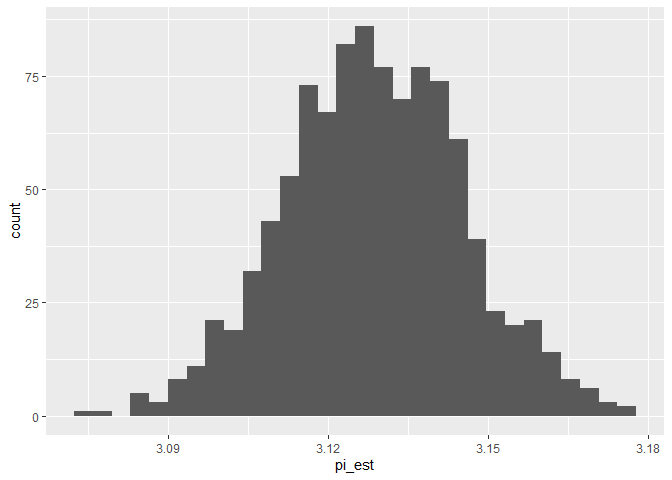
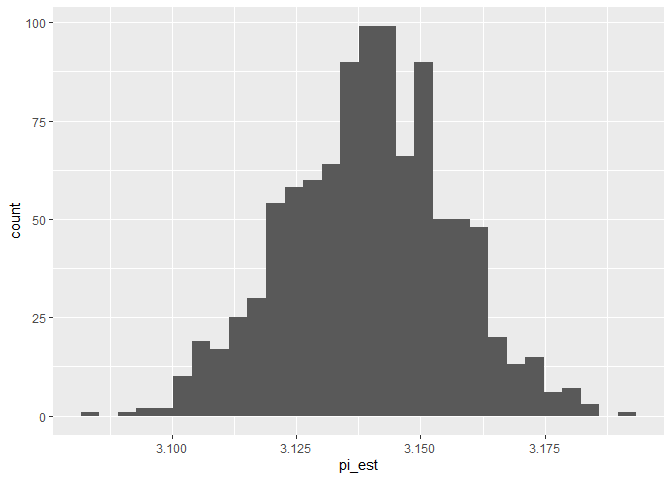
revisions to challenge 7

diff --git a/challenges/c07-monte-carlo-assignment.md b/challenges/c07-monte-carlo-assignment.md
@@ -60,6 +60,7 @@ a link to Canvas. **Your Challenge submission is not complete without
 all files uploaded to GitHub.**
 
 ``` r
+set.seed(101)
 library(tidyverse)
 ```
 
@@ -324,7 +325,7 @@ df_q3
     ## # A tibble: 1 × 1
     ##   pi_est
     ##    <dbl>
-    ## 1   3.13
+    ## 1   3.14
 
 Use the following to check that you’ve used the correct variable names.
 (NB. This does not check correctness.)
@@ -401,11 +402,23 @@ df_q4 %>%
 
 ![](c07-monte-carlo-assignment_files/figure-gfm/q4-task-1.png)<!-- -->
 
+``` r
+min(df_q4$pi_est)
+```
+
+    ## [1] 3.0832
+
+``` r
+max(df_q4$pi_est)
+```
+
+    ## [1] 3.1912
+
 *Observations*
 
 - What is a range of plausible values, based on the sampling
   distribution you’ve generated?
-  - 3.0875 to 3.195 are the values I have in my range
+  - 3.0856 to 3.1884 are the values I have in my range
 
 ### **q5** Bootstrap percentile confidence interval
 
@@ -431,7 +444,25 @@ df_q5
     ## # A tibble: 1 × 2
     ##   pi_lo pi_up
     ##   <dbl> <dbl>
-    ## 1  3.10  3.16
+    ## 1  3.11  3.17
+
+``` r
+df_q6 <- 
+  df_q1 %>% 
+  mutate(inside = stat(x, y)) %>% 
+  summarize(
+    pi_est = mean(inside),
+    se = sd(inside) / sqrt(n),
+    pi_lo = pi_est - qnorm(0.975) * se,
+    pi_up = pi_est + qnorm(0.975) * se
+  )
+df_q6
+```
+
+    ## # A tibble: 1 × 4
+    ##   pi_est     se pi_lo pi_up
+    ##    <dbl>  <dbl> <dbl> <dbl>
+    ## 1   3.14 0.0164  3.11  3.17
 
 ### **q6** CLT confidence interval
 
@@ -462,7 +493,7 @@ df_q6
     ## # A tibble: 1 × 4
     ##   pi_est     se pi_lo pi_up
     ##    <dbl>  <dbl> <dbl> <dbl>
-    ## 1   3.13 0.0165  3.10  3.16
+    ## 1   3.14 0.0164  3.11  3.17
 
 **Observations**:
 
